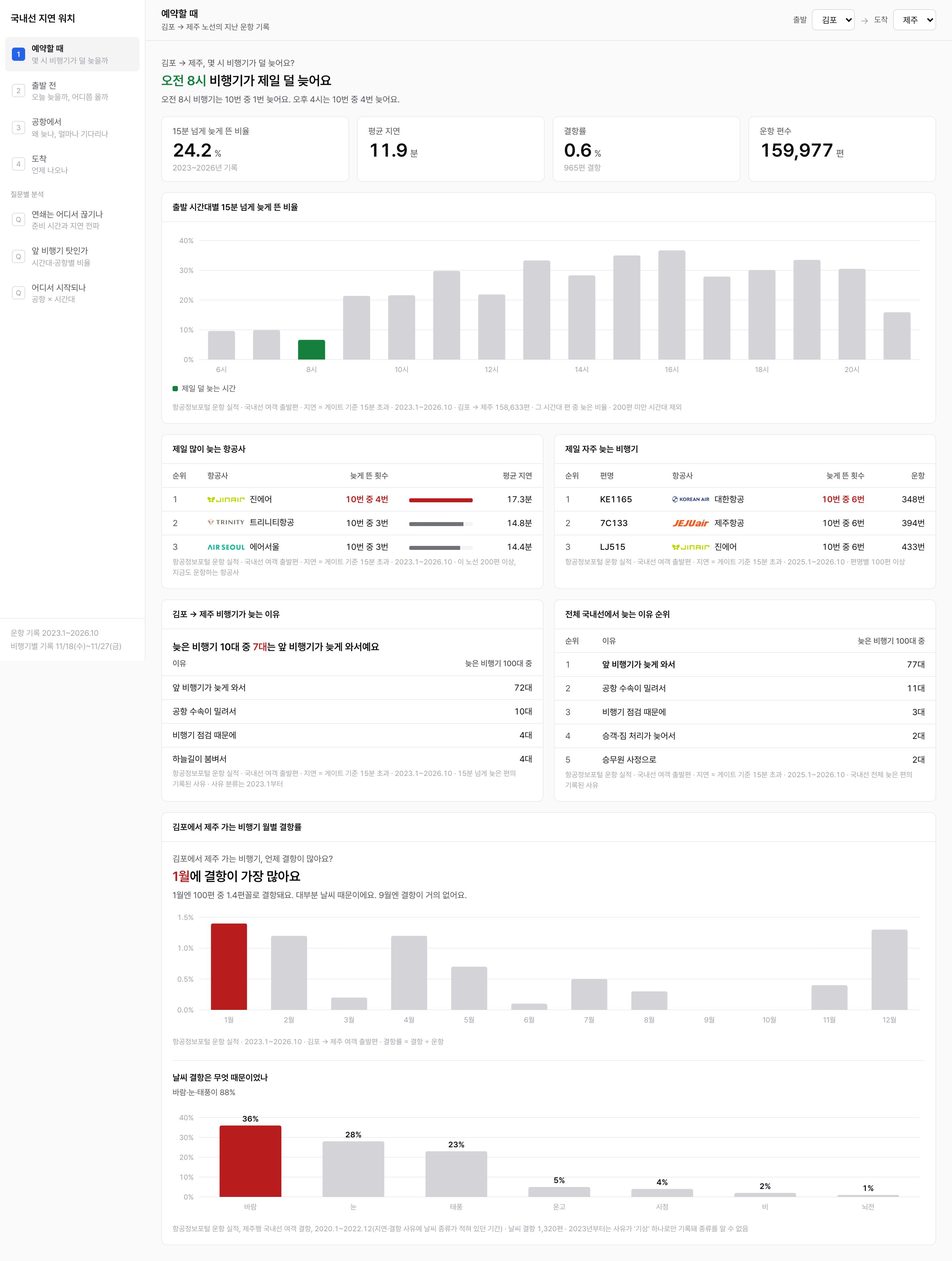
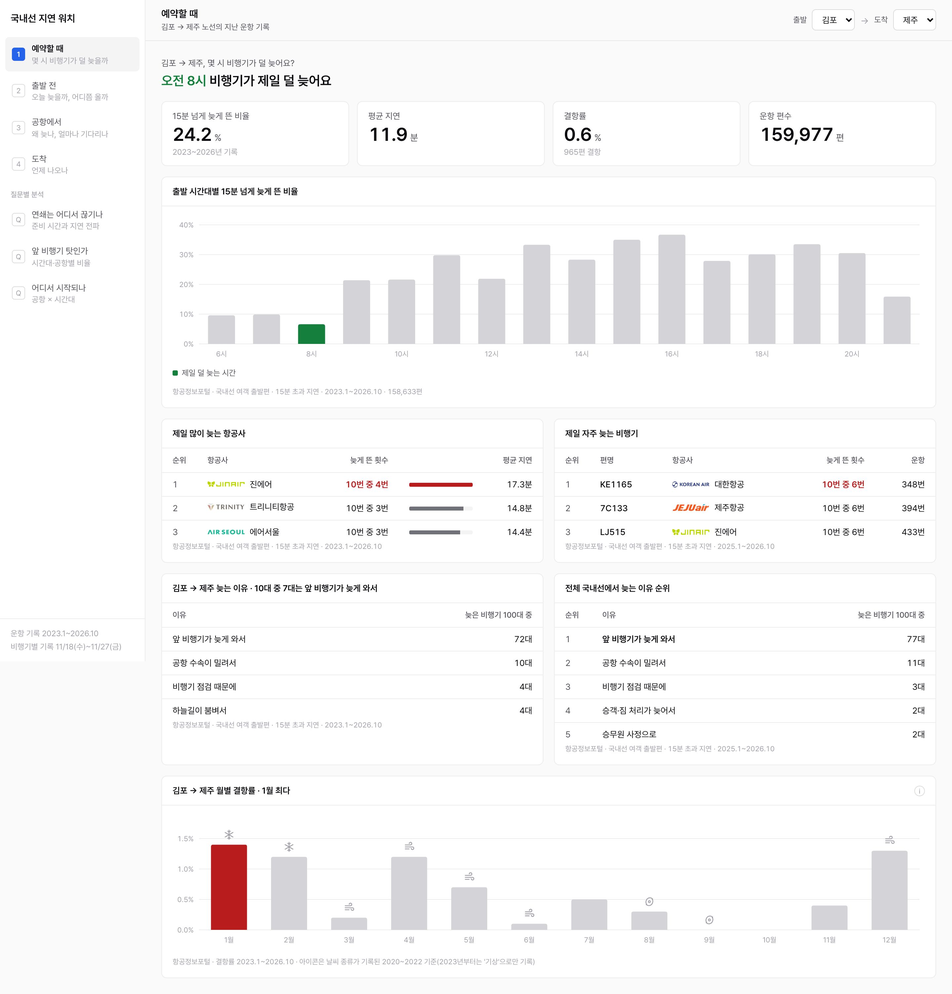
시안 설명 줄이기: 축 설명은 i 툴팁, 답 한 줄, 출처 짧게. 제주 결항 막대 위에 날씨 원인 선 아이콘(2020~2022 기준), 별도 날씨 그래프 삭제

diff --git a/web/components/BookTab.tsx b/web/components/BookTab.tsx
@@ -4,8 +4,8 @@
 import type { History, RouteAirline, RouteFlight, RouteHour } from "@/lib/types";
 import { CAUSE, hourName, late10, tenOf } from "@/lib/words";
 import { useEffect, useState } from "react";
-import { Airline, Answer, Card, KpiTile, Meter, Src, Table, type Col } from "@/components/ui";
-import { BarChart } from "@/components/charts";
+import { Airline, Answer, Card, InfoTip, KpiTile, Meter, Src, Table, type Col } from "@/components/ui";
+import { BarChart, type WxIcon } from "@/components/charts";
 
 export function BookTab({ h, dep, arr }: { h: History; dep: string; arr: string }) {
   const same = <T extends { dep?: string; arr?: string }>(x: T) => x.dep === dep && x.arr === arr;
@@ -28,7 +28,7 @@ export function BookTab({ h, dep, arr }: { h: History; dep: string; arr: string 
 
   const rRate = Math.round((1000 * route.late) / route.base) / 10;
   const per = `${h.period.from.slice(0, 4)}.${+h.period.from.slice(4, 6)}~${h.period.to.slice(0, 4)}.${+h.period.to.slice(4, 6)}`;
-  const SRC = `항공정보포털 운항 실적 · 국내선 여객 출발편 · 지연 = 게이트 기준 15분 초과`;
+  const SRC = `항공정보포털 · 국내선 여객 출발편 · 15분 초과 지연`;
   const airCols: Col<RouteAirline>[] = [
     { key: "rk", label: "순위", width: "48px", render: (a) => <span className="text-ink-2">{airlines.indexOf(a) + 1}</span> },
     { key: "nm", label: "항공사", render: (a) => <Airline name={a.airline} /> },
@@ -46,8 +46,7 @@ export function BookTab({ h, dep, arr }: { h: History; dep: string; arr: string 
 
   return (
     <div className="flex flex-col gap-4">
-      <Answer q={`${dep} → ${arr}, 몇 시 비행기가 덜 늦어요?`}
-        sub={<>{hourName(best.h)} 비행기는 {late10(tenOf(best.late, best.base))}. {hourName(worst.h)}는 {late10(tenOf(worst.late, worst.base))}.</>}>
+      <Answer q={`${dep} → ${arr}, 몇 시 비행기가 덜 늦어요?`}>
         <span className="text-ok">{hourName(best.h)}</span> 비행기가 제일 덜 늦어요
       </Answer>
 
@@ -64,31 +63,28 @@ export function BookTab({ h, dep, arr }: { h: History; dep: string; arr: string 
           tickEvery={2}
           legend={[{ tone: "ok", label: "제일 덜 늦는 시간" }]}
         />
-        <Src>{SRC} · {per} · {dep} → {arr} {route.base.toLocaleString()}편 · 그 시간대 편 중 늦은 비율 · 200편 미만 시간대 제외</Src>
+        <Src>{SRC} · {per} · {route.base.toLocaleString()}편</Src>
       </Card>
 
       <div className="grid gap-4 xl:grid-cols-2">
         <Card title="제일 많이 늦는 항공사">
           <Table cols={airCols} rows={airlines} rowKey={(a) => a.airline} />
-          <Src>{SRC} · {per} · 이 노선 200편 이상, 지금도 운항하는 항공사</Src>
+          <Src>{SRC} · {per}</Src>
         </Card>
         <Card title="제일 자주 늦는 비행기">
           <Table cols={flCols} rows={flights} rowKey={(f) => f.flight} />
-          <Src>{SRC} · 2025.1~{h.period.to.slice(0, 4)}.{+h.period.to.slice(4, 6)} · 편명별 100편 이상</Src>
+          <Src>{SRC} · 2025.1~{h.period.to.slice(0, 4)}.{+h.period.to.slice(4, 6)}</Src>
         </Card>
       </div>
 
       <div className="grid gap-4 xl:grid-cols-2">
         {ctot > 0 && (
-          <Card title={`${dep} → ${arr} 비행기가 늦는 이유`}>
-            <p className="mb-3 text-[15px] font-semibold">
-              늦은 비행기 10대 중 <span className="text-bad">{Math.round((10 * causes[0].late) / ctot)}대</span>는 {CAUSE[causes[0].cause_group]}예요
-            </p>
+          <Card title={`${dep} → ${arr} 늦는 이유 · 10대 중 ${Math.round((10 * causes[0].late) / ctot)}대는 ${CAUSE[causes[0].cause_group]}`}>
             <Table cols={[
               { key: "c", label: "이유", render: (c) => CAUSE[c.cause_group] },
               { key: "v", label: "늦은 비행기 100대 중", align: "right", render: (c) => `${Math.max(1, Math.round((100 * c.late) / ctot))}대` },
             ]} rows={causes.slice(0, 4)} rowKey={(c) => c.cause_group} />
-            <Src>{SRC} · {per} · 15분 넘게 늦은 편의 기록된 사유 · 사유 분류는 2023.1부터</Src>
+            <Src>{SRC} · {per}</Src>
           </Card>
         )}
         <Card title="전체 국내선에서 늦는 이유 순위">
@@ -97,7 +93,7 @@ export function BookTab({ h, dep, arr }: { h: History; dep: string; arr: string 
             { key: "c", label: "이유", render: (c) => <span className={causes[0] && c.cause_group === causes[0].cause_group ? "font-semibold" : ""}>{CAUSE[c.cause_group]}</span> },
             { key: "v", label: "늦은 비행기 100대 중", align: "right", render: (c) => `${Math.max(1, Math.round((100 * c.late) / atot))}대` },
           ]} rows={all.slice(0, 5)} rowKey={(c) => c.cause_group} />
-          <Src>{SRC} · 2025.1~{h.period.to.slice(0, 4)}.{+h.period.to.slice(4, 6)} · 국내선 전체 늦은 편의 기록된 사유</Src>
+          <Src>{SRC} · 2025.1~{h.period.to.slice(0, 4)}.{+h.period.to.slice(4, 6)}</Src>
         </Card>
       </div>
 
@@ -106,7 +102,7 @@ export function BookTab({ h, dep, arr }: { h: History; dep: string; arr: string 
   );
 }
 
-type JejuWeather = { source: string; total: number; kinds: { kind: string; n: number }[]; after_2023: { weather_cancel: number; note: string } };
+type JejuWeather = { source: string; total: number; kinds: { kind: string; n: number }[]; after_2023: { weather_cancel: number; note: string }; by_month?: Record<string, { total: number; top: string; top_n: number }> };
 
 function JejuCard({ h, dep }: { h: History; dep: string }) {
   const [W, setW] = useState<JejuWeather | null>(null);
@@ -117,27 +113,14 @@ function JejuCard({ h, dep }: { h: History; dep: string }) {
   const rate = (x: (typeof m)[number]) => (x.f ? x.c / x.f : 0);
   const per = (x: (typeof m)[number]) => Math.round(1000 * rate(x)) / 10;
   const top = m.reduce((a, b) => (rate(b) > rate(a) ? b : a));
-  const low = m.reduce((a, b) => (rate(b) < rate(a) ? b : a));
-  const weather = top.c ? Math.round((10 * top.w) / top.c) : 0;
+  const ICON: Record<string, WxIcon> = { 눈: "snow", 바람: "wind", 태풍: "typhoon", 시정: "fog", 운고: "fog", 비: "rain", 뇌전: "storm" };
+  const KO: Record<WxIcon, string> = { snow: "눈", wind: "바람", typhoon: "태풍", fog: "안개·낮은 구름", rain: "비", storm: "뇌우" };
+  const iconOf = (mo: number) => { const b = W?.by_month?.[String(mo)]; return b && b.top_n >= 15 && b.top_n / b.total >= 0.4 ? ICON[b.top] : undefined; };
   return (
-    <Card title={jo === "전체" ? "제주 가는 비행기 월별 결항률" : `${jo}에서 제주 가는 비행기 월별 결항률`}>
-      <div className="mb-3">
-        <Answer q={jo === "전체" ? "제주 가는 비행기, 언제 결항이 많아요?" : `${jo}에서 제주 가는 비행기, 언제 결항이 많아요?`}
-          sub={<>{top.m}월엔 100편 중 {per(top)}편꼴로 결항돼요{weather >= 5 ? ". 대부분 날씨 때문이에요" : ""}. {per(low) < 0.5 ? `${low.m}월엔 결항이 거의 없어요.` : `${low.m}월은 100편 중 ${per(low)}편이에요.`}</>}>
-          <span className="text-bad">{top.m}월</span>에 결항이 가장 많아요
-        </Answer>
-      </div>
-      <BarChart bars={m.map((x) => ({ key: x.m, label: `${x.m}월`, value: per(x), tone: x === top ? "bad" : undefined, tip: `${x.m}월 · 100편 중 ${per(x)}편 결항 · ${x.f.toLocaleString()}편` }))} height={180} />
-      <Src>항공정보포털 운항 실적 · {h.period.from.slice(0, 4)}.{+h.period.from.slice(4, 6)}~{h.period.to.slice(0, 4)}.{+h.period.to.slice(4, 6)} · {jo === "전체" ? "전국" : jo} → 제주 여객 출발편 · 결항률 = 결항 ÷ 운항</Src>
-      {W && (
-        <div className="mt-5 border-t border-line pt-4">
-          <p className="mb-1 text-[13px] font-semibold text-ink">날씨 결항은 무엇 때문이었나</p>
-          <p className="mb-2 text-xs text-ink-2">바람·눈·태풍이 {Math.round((100 * W.kinds.filter((k) => ["바람", "눈", "태풍"].includes(k.kind)).reduce((a, b) => a + b.n, 0)) / W.total)}%</p>
-          <BarChart showValues height={170}
-            bars={W.kinds.filter((k) => k.n >= 5).map((k, i) => ({ key: k.kind, label: k.kind, value: Math.round((100 * k.n) / W.total), tone: i === 0 ? "bad" : undefined, tip: `${k.kind} · ${k.n}편` }))} />
-          <Src>{W.source} · 날씨 결항 {W.total.toLocaleString()}편 · 2023년부터는 사유가 &apos;기상&apos; 하나로만 기록돼 종류를 알 수 없음</Src>
-        </div>
-      )}
+    <Card title={`${jo === "전체" ? "제주행" : `${jo} → 제주`} 월별 결항률 · ${top.m}월 최다`}
+      right={<InfoTip><b className="font-medium text-ink">X</b> 월<br /><b className="font-medium text-ink">Y</b> 결항 ÷ 운항(%)<br />막대 위 아이콘 = 그 달 날씨 결항의 주된 원인({Object.values(KO).join("·")}), 2020~2022 제주행 기록 기준. 그 달 날씨 결항이 적거나 원인이 고르게 섞인 달은 표시 안 함</InfoTip>}>
+      <BarChart bars={m.map((x) => ({ key: x.m, label: `${x.m}월`, value: per(x), icon: iconOf(x.m), tone: x === top ? "bad" : undefined, tip: `${x.m}월 · 100편 중 ${per(x)}편 결항${iconOf(x.m) ? ` · 날씨 결항 주원인 ${KO[iconOf(x.m)!]}(2020~2022)` : ""}` }))} height={200} />
+      <Src>항공정보포털 · 결항률 {h.period.from.slice(0, 4)}.{+h.period.from.slice(4, 6)}~{h.period.to.slice(0, 4)}.{+h.period.to.slice(4, 6)} · 아이콘은 날씨 종류가 기록된 2020~2022 기준(2023년부터는 &apos;기상&apos;으로만 기록)</Src>
     </Card>
   );
 }

diff --git a/web/components/QuestionPages.tsx b/web/components/QuestionPages.tsx
@@ -4,15 +4,15 @@
 // 차트는 QuickSight 기본 차트(막대·열지도)로 옮길 수 있는 형태만 쓴다. 강조는 막대·칸 하나만.
 // 카드 오른쪽 작은 글씨 = X·Y축, 그래프 아래 옅은 한 줄 = 출처(원천·기간·기준·n).
 import type { Airports, Questions } from "@/lib/types";
-import { Card, Hero, Src } from "@/components/ui";
+import { Card, Hero, InfoTip, Src } from "@/components/ui";
 import { BarChart } from "@/components/charts";
 
 const pct = (a: number, b: number) => (b ? Math.round((100 * a) / b) : 0);
 const BANDS = ["~08시", "09~11시", "12~14시", "15~17시", "18시~"];
 const SMALL = 20; // 이보다 적으면 "적음"
 const md = (s: string) => `${+s.slice(4, 6)}/${+s.slice(6)}`;
-const KAC = (q: Questions) => `회전 테이블(한국공항공사 API) ${md(q.period.from)}~${md(q.period.to)} · 국내선 ${q.flights.toLocaleString()}편 · 지연 = 게이트 기준 15분 초과`;
-const XY = ({ x, y }: { x: string; y: string }) => <span>X {x} · Y {y}</span>;
+const KAC = (q: Questions) => `한국공항공사 API · ${md(q.period.from)}~${md(q.period.to)} · 국내선 ${q.flights.toLocaleString()}편 · 15분 초과 지연`;
+const XY = ({ x, y, m }: { x: string; y: string; m?: string }) => <InfoTip><b className="font-medium text-ink">X</b> {x}<br /><b className="font-medium text-ink">Y</b> {y}{m && <><br />{m}</>}</InfoTip>;
 
 /** 열지도(QuickSight Heat map): 가장 큰 칸만 진하게, 나머지는 옅게 */
 function Heatmap({ rows, cols, cell, fmt, rowLabel }: {
@@ -56,23 +56,22 @@ function Heatmap({ rows, cols, cell, fmt, rowLabel }: {
 /* ---------- 연쇄 지연은 어디서 끊기나 ---------- */
 export function ChainBreakPage({ q }: { q: Questions }) {
   const s = q.c_slack, starts = q.c_len.reduce((a, b) => a + b.n, 0);
-  const half = s.find((x) => pct(x.ontime, x.n) >= 45) ?? s[s.length - 1];
   const best = s[s.length - 1];
   return (
     <div className="flex flex-col gap-4">
       <Hero q="앞 비행기가 늦으면 내 비행기도 꼭 늦나요?" value={`${100 - pct(s[0].ontime, s[0].n)}`} unit="%" tone="bad">
-        준비 시간이 40분이 안 되면 거의 다 따라 늦어요. {parseInt(half.bucket)}분은 넘어야 절반이 제때 떠요(보통 {q.turn_median}분)
+        준비 시간 40분 미만이면 거의 다 따라 늦어요
       </Hero>
       <div className="grid gap-4 xl:grid-cols-2">
-        <Card title="준비 시간이 길수록 지연이 끊겨요" right={<XY x="준비 시간" y="제때 뜬 비율" />}>
+        <Card title="준비 시간별 제때 뜬 비율" right={<XY x="계획 준비 시간(앞 편 도착 예정~이 편 출발 예정)" y="앞 편이 15분 넘게 늦었는데도 제때 뜬 비율 = 연쇄가 끊긴 비율" m={`보통 준비 시간 ${q.turn_median}분 · n = 앞 편이 늦게 온 편수`} />}>
           <BarChart showValues max={100}
             bars={s.map((x) => ({ key: x.bucket, label: x.bucket, sub: `n=${x.n}`, value: pct(x.ontime, x.n), tone: x === best ? "ok" : undefined, tip: `${x.bucket} · 앞 편이 늦은 ${x.n}편 중 ${x.ontime}편 제때 출발` }))} />
-          <Src>{KAC(q)} · 앞 편이 15분 넘게 늦게 도착한 {s.reduce((a, b) => a + b.n, 0)}편 · 준비 시간 = 앞 편 도착 예정~이 편 출발 예정</Src>
+          <Src>{KAC(q)} · 앞 편 지연 {s.reduce((a, b) => a + b.n, 0)}편</Src>
         </Card>
-        <Card title="처음 늦은 비행기 절반 이상은 지연을 넘기지 않아요" right={<XY x="뒤이어 늦은 편 수" y="비행기 수" />}>
+        <Card title="지연을 몇 편까지 넘겼나" right={<XY x="같은 기체에서 앞 편 지연을 넘겨받아 늦은 편이 이어진 수" y="그날 처음 늦은 비행기 수" />}>
           <BarChart showValues unit="편"
             bars={q.c_len.map((x) => ({ key: x.hops, label: x.hops === 0 ? "안 넘김" : x.hops === 3 ? "3편 이상" : `${x.hops}편`, sub: `${pct(x.n, starts)}%`, value: x.n, tone: x.hops === 0 ? "ok" : undefined, tip: `${x.n}편` }))} />
-          <Src>{KAC(q)} · 그날 처음 늦은 비행기 {starts}편 · 같은 기체에서 앞 편 지연을 넘겨받아 늦은 편이 이어진 수</Src>
+          <Src>{KAC(q)} · 처음 늦은 {starts}편</Src>
         </Card>
       </div>
     </div>
@@ -91,18 +90,18 @@ export function BlamePage({ q, AP }: { q: Questions; AP: Airports | null }) {
   return (
     <div className="flex flex-col gap-4">
       <Hero q="비행기가 늦으면 앞 비행기 때문인가요?" value={`${pct(prop, q.late)}`} unit="%" tone="bad">
-        늦은 비행기 절반 넘게 앞 비행기 탓이에요. 오전 {pct(am[0], am[1])}% → 오후 3시 이후 {pct(pm[0], pm[1])}%
+        늦은 비행기 절반 넘게 앞 비행기 탓, 오후일수록 더 그래요
       </Hero>
       <div className="grid gap-4 xl:grid-cols-2">
-        <Card title="오후로 갈수록 앞 비행기 탓이 늘어요" right={<XY x="출발 시간대" y="앞 편 탓 비율" />}>
+        <Card title="시간대별 앞 비행기 탓 비율" right={<XY x="예정 출발 시간대" y="15분 넘게 늦은 편 중 앞 편 지연을 넘겨받은 비율" m={`오전 ${pct(am[0], am[1])}% → 오후 3시 이후 ${pct(pm[0], pm[1])}% · 첫 편·앞 편 기록 없음 제외`} />}>
           <BarChart showValues max={100}
             bars={q.a_band.map((x) => ({ key: x.band, label: x.band, sub: `n=${x.n}${x.n < SMALL ? " 적음" : ""}`, value: pct(x.prop, x.n), tone: x === topBand ? "bad" : undefined, tip: `${x.band} · 늦은 ${x.n}편 중 ${x.prop}편이 앞 편 탓` }))} />
-          <Src>{KAC(q)} · 늦은 편 {q.late}편 중 그날 첫 편·앞 편 기록 없음 제외 · n = 그 시간대 늦은 편</Src>
+          <Src>{KAC(q)} · 늦은 {q.late}편</Src>
         </Card>
-        <Card title="제주·김포가 늦은 비행기의 대부분" right={<XY x="출발 공항" y="앞 편 탓 비율" />}>
+        <Card title="공항별 앞 비행기 탓 비율" right={<XY x="출발 공항(늦은 편 많은 순 8곳)" y="15분 넘게 늦은 편 중 앞 편 탓 비율" m={`n ${SMALL}편 미만은 5일 치라 비율 단정 어려움`} />}>
           <BarChart showValues max={100}
             bars={aps.map((x) => ({ key: x.ap, label: ko(x.ap), sub: `n=${x.n}${x.n < SMALL ? " 적음" : ""}`, value: pct(x.prop, x.n), tone: x === topAp ? "bad" : undefined, tip: `${ko(x.ap)} · 늦은 ${x.n}편 중 ${x.prop}편이 앞 편 탓` }))} />
-          <Src>{KAC(q)} · 늦은 편이 많은 공항 8곳 · n {SMALL}편 미만은 5일 치라 비율 단정 어려움</Src>
+          <Src>{KAC(q)} · 늦은 {q.late}편</Src>
         </Card>
       </div>
     </div>
@@ -126,17 +125,17 @@ export function OriginPage({ q, AP }: { q: Questions; AP: Airports | null }) {
   return (
     <div className="flex flex-col gap-4">
       <Hero q="지연은 어느 공항, 몇 시에 처음 시작되나요?" value={`${pct(cg, starts)}`} unit="%" tone="bad">
-        처음 늦는 비행기 대부분이 제주·김포에서 떠요. 가장 많은 곳은 {ko(top.ap)} {top.band}
+        처음 늦는 비행기는 제주·김포에서 떠요
       </Hero>
-      <Card title="처음 늦은 비행기가 나온 공항 × 시간대" right={<XY x="출발 시간대" y="출발 공항" />}>
+      <Card title="처음 늦은 비행기: 공항 × 시간대" right={<XY x="예정 출발 시간대" y="출발 공항" m={`칸 = 앞 편은 제때 왔는데 그 편에서 처음 늦은 편수 · 가장 많은 칸 ${ko(top.ap)} ${top.band}`} />}>
         <Heatmap rows={apRows} cols={BANDS} rowLabel={ko} fmt={(v) => `${v}`}
           cell={(r, c) => { const x = q.b_cells.find((y) => y.ap === r && y.band === c); return { v: x ? x.n : null, tip: `${ko(r)} ${c} · ${x?.n ?? 0}편` }; }} />
-        <Src>{KAC(q)} · 칸 = 앞 편은 제때 왔는데 그 편에서 처음 늦은 편수, 모두 {starts}편 · · = 0편</Src>
+        <Src>{KAC(q)} · 처음 늦은 {starts}편</Src>
       </Card>
-      <Card title="노선 전체: 출발 × 도착 지연률" right={<XY x="도착 공항" y="출발 공항" />}>
+      <Card title="노선별 지연률: 출발 × 도착" right={<XY x="도착 공항" y="출발 공항" m="칸 = 15분 넘게 늦게 출발한 비율(%) · 빈칸 = 노선 없음 또는 300편 미만" />}>
         <Heatmap rows={aps} cols={aps} fmt={(v) => `${Math.round(v)}`}
           cell={(r, c) => { const x = od.get(`${r}|${c}`); return x && x.base >= 300 ? { v: (100 * x.late) / x.base, tip: `${r} → ${c} · ${x.base.toLocaleString()}편 중 ${Math.round((100 * x.late) / x.base)}% 지연` } : { v: null, tip: x ? `${r} → ${c} · ${x.base}편(적음)` : `${r} → ${c} · 노선 없음` }; }} />
-        <Src>과거 운항 실적(항공정보포털) {p.from.slice(0, 4)}.{+p.from.slice(4, 6)}~{p.to.slice(0, 4)}.{+p.to.slice(4, 6)} · 국내선 여객 출발편 · 칸 = 15분 넘게 늦게 출발한 비율(%) · · = 노선 없음 또는 300편 미만</Src>
+        <Src>항공정보포털 · {p.from.slice(0, 4)}.{+p.from.slice(4, 6)}~{p.to.slice(0, 4)}.{+p.to.slice(4, 6)} · 국내선 여객 출발편 · 15분 초과 지연</Src>
       </Card>
     </div>
   );

diff --git a/web/components/FlightTabs.tsx b/web/components/FlightTabs.tsx
@@ -11,7 +11,7 @@ import { cascadeOrigin, computeCascade, MTT_MIN } from "@/lib/cascade";
 
 type Ctx = { h: History; AP: Airports; ROT: Record<string, Leg[]>; DAYS: string[]; day: string; cur: Leg; goDay: (d: string, fno?: string) => void; SAT: Satellite | null };
 const koOf = (AP: Airports) => (c: string | null) => (c ? AP[c]?.ko ?? c : "");
-const KACS = (days: string[]) => `회전 테이블(한국공항공사 API) ${days.length ? `${dayLabel(days[0])}~${dayLabel(days[days.length - 1])}` : ""} · 지연 = 게이트 기준 15분 초과`;
+const KACS = (days: string[]) => `한국공항공사 API · ${days.length > 1 ? `${dayLabel(days[0])}~${dayLabel(days[days.length - 1])}` : dayLabel(days[0])} · 15분 초과 지연`;
 const legsOf = (rows: Leg[], r: Leg) => rows.filter((x) => x.reg_no === r.reg_no).sort((a, b) => (a.dep_sched_at < b.dep_sched_at ? -1 : 1));
 
 export function LeaveTab({ h, AP, ROT, DAYS, day, cur, goDay, SAT }: Ctx) {
@@ -46,7 +46,7 @@ export function LeaveTab({ h, AP, ROT, DAYS, day, cur, goDay, SAT }: Ctx) {
       <div className="grid gap-4 xl:grid-cols-[minmax(0,3fr)_minmax(0,2fr)]">
         <Card title="내가 탈 비행기는 지금 어디쯤?">
           <SatMap key={r.flight_no + day} legs={prev ? [prev, r] : [r]} cur={r} AP={AP} SAT={SAT} />
-          <Src>{KACS([day])} · 위치는 이륙·착륙 시각 사이를 나눈 추정 · 위성 사진 Esri</Src>
+          <Src>{KACS([day])} · 위치는 이착륙 시각으로 추정 · 위성 사진 Esri</Src>
         </Card>
         <Card title={`${r.flight_no}, 다른 날은 어땠어요?`} right={<span>최근 {seen.length}번 운항 중 {lateN}번 늦음</span>}>
           <div className="mb-4 grid grid-cols-2 gap-3">{cmp("하루 전", shift(day, -1))}{cmp("일주일 전 같은 요일", shift(day, -7))}</div>
@@ -56,7 +56,7 @@ export function LeaveTab({ h, AP, ROT, DAYS, day, cur, goDay, SAT }: Ctx) {
               { key: "s", label: "출발", align: "right", render: (dd) => { const x = on(dd); return x ? <Badge tone={delayTone(x.dep_delay_gate_est_min)}>{delayWord(x.dep_delay_gate_est_min)}</Badge> : <span className="text-ink-3">운항 없음</span>; } },
             ]}
             rows={[...DAYS].reverse()} rowKey={(dd) => dd} selected={(dd) => dd === day} onRow={(dd) => on(dd) && goDay(dd, r.flight_no)} />
-          <Src>{KACS(DAYS)} · 같은 편명·같은 출발 공항</Src>
+          <Src>{KACS(DAYS)}</Src>
         </Card>
       </div>
 
@@ -67,7 +67,7 @@ export function LeaveTab({ h, AP, ROT, DAYS, day, cur, goDay, SAT }: Ctx) {
           { key: "no", label: "편명", wide: true, render: (l) => l.flight_no },
           { key: "s", label: "출발", align: "right", render: (l) => <Badge tone={delayTone(l.dep_delay_gate_est_min)}>{delayWord(l.dep_delay_gate_est_min)}</Badge> },
         ]} rows={legs} rowKey={(l) => l.flight_no + l.dep_sched_at} selected={(l) => l === r} />
-        <Src>{KACS([day])} · 같은 등록번호 {r.reg_no}의 그날 비행</Src>
+        <Src>{KACS([day])} · {r.reg_no}</Src>
       </Card>
 
       <Domino legs={legs} r={r} ko={ko} />
@@ -101,7 +101,7 @@ function Domino({ legs, r, ko }: { legs: Leg[]; r: Leg; ko: (c: string | null) =
         {extra > 0 && <span className="font-medium text-ink">→ 내 비행기 {moved > 0 ? <span className="text-bad">{dur(moved)} 더 늦어요</span> : <span className="text-ok">그대로예요</span>}</span>}
       </div>
       <CascadeGraph chain={chain} myFlight={r.flight_no} ko={ko} />
-      <Src>회전 테이블(한국공항공사 API) {r.flight_date} · 같은 기체 {r.reg_no} · 넘어온 지연 = max(0, 앞 편 착륙 + 5분 + 40분 − 출발 예정) · 슬라이더는 가정</Src>
+      <Src>한국공항공사 API · {r.flight_date} · {r.reg_no} · 슬라이더는 가정</Src>
     </Card>
   );
 }
@@ -144,7 +144,7 @@ export function AirportTab({ h, AP, ROT, day, cur }: Ctx) {
               </div>
             </>
           ) : <p className="text-ink-2">이 노선은 지난 기록이 부족해요</p>}
-          <Src>항공정보포털 운항 실적 {h.period.from.slice(0, 4)}.{+h.period.from.slice(4, 6)}~{h.period.to.slice(0, 4)}.{+h.period.to.slice(4, 6)} · 같은 노선·같은 출발 시각대 출발 지연 중간값·90% 값{hr ? ` · ${hr.flights.toLocaleString()}편` : ""}</Src>
+          <Src>항공정보포털 · {h.period.from.slice(0, 4)}.{+h.period.from.slice(4, 6)}~{h.period.to.slice(0, 4)}.{+h.period.to.slice(4, 6)}{hr ? ` · ${hr.flights.toLocaleString()}편` : ""}</Src>
         </Card>
         <Card title="다른 비행기로 바꿀 수 있을까요?" right={<span>{alts.length ? `${ko(r.arr_airport)} 가는 다음 비행기 ${alts.length}편` : "다음 비행기 없음"}</span>}>
           {alts.length ? (
@@ -155,7 +155,7 @@ export function AirportTab({ h, AP, ROT, day, cur }: Ctx) {
               { key: "s", label: "출발", align: "right", render: (x) => <Badge tone={delayTone(x.dep_delay_gate_est_min)}>{x.dep_delay_gate_est_min == null ? "예정" : delayWord(x.dep_delay_gate_est_min)}</Badge> },
             ] as Col<Leg>[]} rows={alts} rowKey={(x) => x.flight_no + x.dep_sched_at} />
           ) : <p className="text-ink-2">이날은 {ko(r.arr_airport)} 가는 다음 비행기가 없어요</p>}
-          <Src>{KACS([day])} · 같은 노선, 내 출발 예정 30분 전부터 5편</Src>
+          <Src>{KACS([day])}</Src>
         </Card>
       </div>
     </div>
@@ -185,7 +185,7 @@ export function ArriveTab({ AP, cur }: Ctx) {
           <label className="flex flex-col gap-1 text-xs text-ink-2">공항에서 나오는 데(분)<input type="number" min={0} step={5} value={out} onChange={(e) => setOut(+e.target.value || 0)} className={`${field} w-28`} /></label>
           <label className="flex flex-col gap-1 text-xs text-ink-2">약속 장소까지(분)<input type="number" min={0} step={5} value={move} onChange={(e) => setMove(+e.target.value || 0)} className={`${field} w-28`} /></label>
         </div>
-        <Src>회전 테이블(한국공항공사 API) {r.flight_date} 착륙 기록 · 착륙 + 5분(게이트) + 입력한 시간으로 계산</Src>
+        <Src>한국공항공사 API · {r.flight_date} 착륙 기록</Src>
         <p className="mt-4 text-xl font-semibold">{left >= 0 ? <>약속까지 <span className="text-ok">{dur(left)}</span> 남아요</> : <>약속에 <span className="text-bad">{dur(-left)}</span> 늦어요</>}</p>
       </Card>
     </div>

diff --git a/web/components/charts.tsx b/web/components/charts.tsx
@@ -4,7 +4,8 @@
 // 회색 막대 + 강조는 의미 있는 1~2개(제일 덜/제일 많이), y축 눈금·범례·마우스 올리면 수치
 import { useEffect, useRef, useState } from "react";
 
-export type Bar = { key: string | number; label: string; value: number; tip: string; tone?: "ok" | "bad" | "accent"; sub?: string };
+export type Bar = { key: string | number; label: string; value: number; tip: string; tone?: "ok" | "bad" | "accent"; sub?: string; icon?: WxIcon };
+export type WxIcon = "wind" | "snow" | "typhoon" | "fog" | "rain" | "storm";
 
 const FILL = { ok: "var(--ok)", bad: "var(--bad)", accent: "var(--accent)" } as const;
 
@@ -24,7 +25,8 @@ export function BarChart({ bars, unit = "%", height = 220, tickEvery: tickEveryI
     return () => ro.disconnect();
   }, []);
   const hasSub = bars.some((b) => b.sub);
-  const H = height, pl = 40, pr = 8, pt = showValues ? 22 : 12, pb = hasSub ? 42 : 28;
+  const hasIcon = bars.some((b) => b.icon);
+  const H = height, pl = 40, pr = 8, pt = (showValues ? 22 : 12) + (hasIcon ? 22 : 0), pb = hasSub ? 42 : 28;
   const raw = Math.max(...bars.map((b) => b.value), 0);
   const step = niceStep(raw / 4);
   const max = maxIn ?? Math.max(step, Math.ceil(raw / step) * step);
@@ -52,6 +54,7 @@ export function BarChart({ bars, unit = "%", height = 220, tickEvery: tickEveryI
               <path d={roundTop(x, top, w, H - pb - top, Math.min(3, w / 2))} fill={fill} />
               {i % tickEvery === 0 && <text x={x + w / 2} y={hasSub ? H - 23 : H - 9} textAnchor="middle" fontSize={11} fill="var(--ink-3)">{b.label}</text>}
               {b.sub && <text x={x + w / 2} y={H - 8} textAnchor="middle" fontSize={10} fill="var(--ink-3)" className="num">{b.sub}</text>}
+              {b.icon && <WxGlyph kind={b.icon} x={x + w / 2} y={top - (showValues ? 22 : 6) - 9} />}
               {showValues && <text x={x + w / 2} y={top - 6} textAnchor="middle" fontSize={12} fontWeight={600} fill="var(--ink)" className="num">{fmtV(b.value)}{unit}</text>}
             </g>
           );
@@ -84,4 +87,17 @@ function roundTop(x: number, y: number, w: number, h: number, r: number) {
   if (h <= 0) return "";
   const rr = Math.min(r, h);
   return `M${x},${y + h} V${y + rr} Q${x},${y} ${x + rr},${y} H${x + w - rr} Q${x + w},${y} ${x + w},${y + rr} V${y + h} Z`;
+}
+
+// 날씨 선 아이콘(16px, 옅은 회색). 막대 위에 그 달의 주된 날씨 결항 원인을 표시
+function WxGlyph({ kind, x, y }: { kind: WxIcon; x: number; y: number }) {
+  const d: Record<WxIcon, string> = {
+    wind: "M2 5h8a2 2 0 1 0-2-2 M2 8h11a2 2 0 1 1-2 2 M2 11h6",
+    snow: "M8 1v14 M2 4.5l12 7 M2 11.5l12-7 M6 2.5l2 1.5 2-1.5 M6 13.5l2-1.5 2 1.5",
+    typhoon: "M13 4c-2-2.5-6.5-2.5-8.5 0S2 10 4 12 M3 12c2 2.5 6.5 2.5 8.5 0S14 6 12 4 M8 8m-1.5 0a1.5 1.5 0 1 0 3 0a1.5 1.5 0 1 0-3 0",
+    fog: "M2 5h12 M1 8h14 M3 11h10",
+    rain: "M4 9a3 3 0 0 1 1-5.8A4 4 0 0 1 13 5a2.5 2.5 0 0 1 0 4H4 M5 11l-1 3 M9 11l-1 3 M13 11l-1 3",
+    storm: "M4 9a3 3 0 0 1 1-5.8A4 4 0 0 1 13 5a2.5 2.5 0 0 1 0 4H4 M9 9l-2 3h3l-2 3",
+  };
+  return <path d={d[kind]} transform={`translate(${x - 8},${y - 8})`} fill="none" stroke="var(--ink-3)" strokeWidth={1.3} strokeLinecap="round" strokeLinejoin="round" />;
 }

diff --git a/web/components/ui.tsx b/web/components/ui.tsx
@@ -173,3 +173,13 @@ export function Hero({ q, value, unit, tone, children }: { q: string; value: str
     </div>
   );
 }
+
+/** 눈에 띄지 않는 i 아이콘. 마우스를 올리면 설명(축 등)을 보여 준다 */
+export function InfoTip({ children }: { children: ReactNode }) {
+  return (
+    <span className="group relative inline-flex">
+      <span tabIndex={0} aria-label="그래프 설명" className="grid size-4 cursor-help place-items-center rounded-full border border-line-strong text-[10px] leading-none text-ink-3 outline-none">i</span>
+      <span role="tooltip" className="pointer-events-none absolute right-0 top-6 z-20 hidden w-64 rounded-[6px] border border-line bg-surface px-3 py-2 text-xs leading-5 text-ink-2 group-focus-within:block group-hover:block">{children}</span>
+    </span>
+  );
+}
